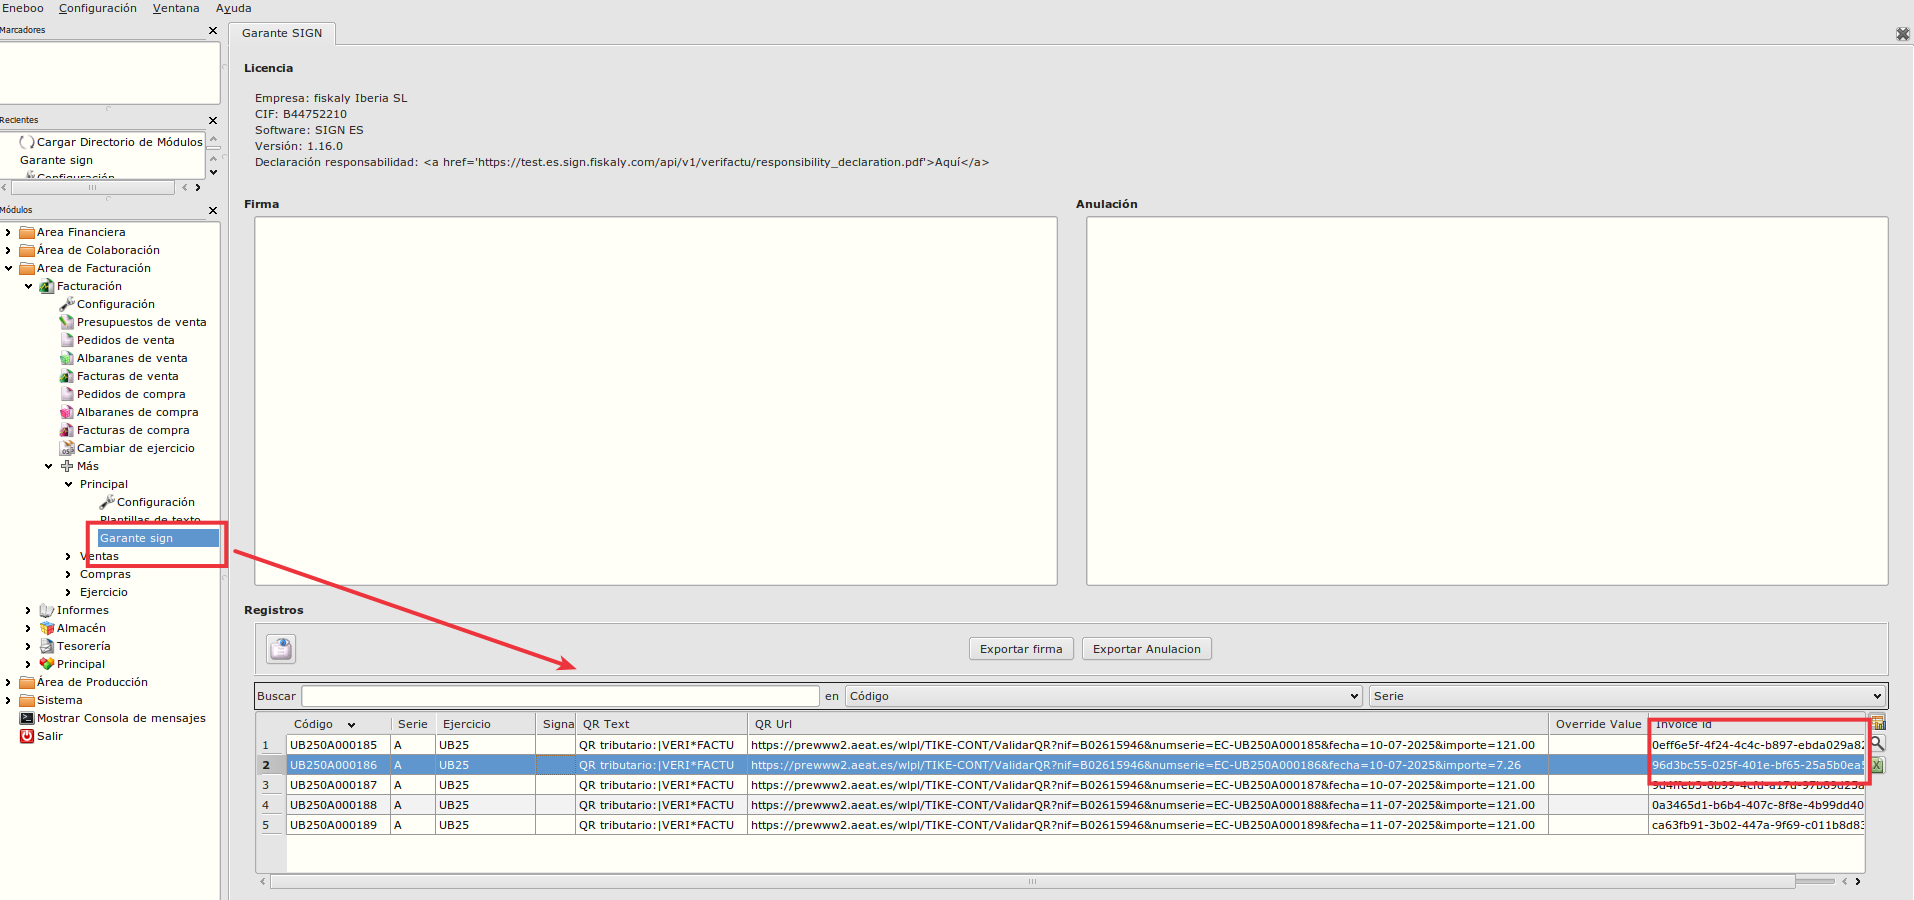
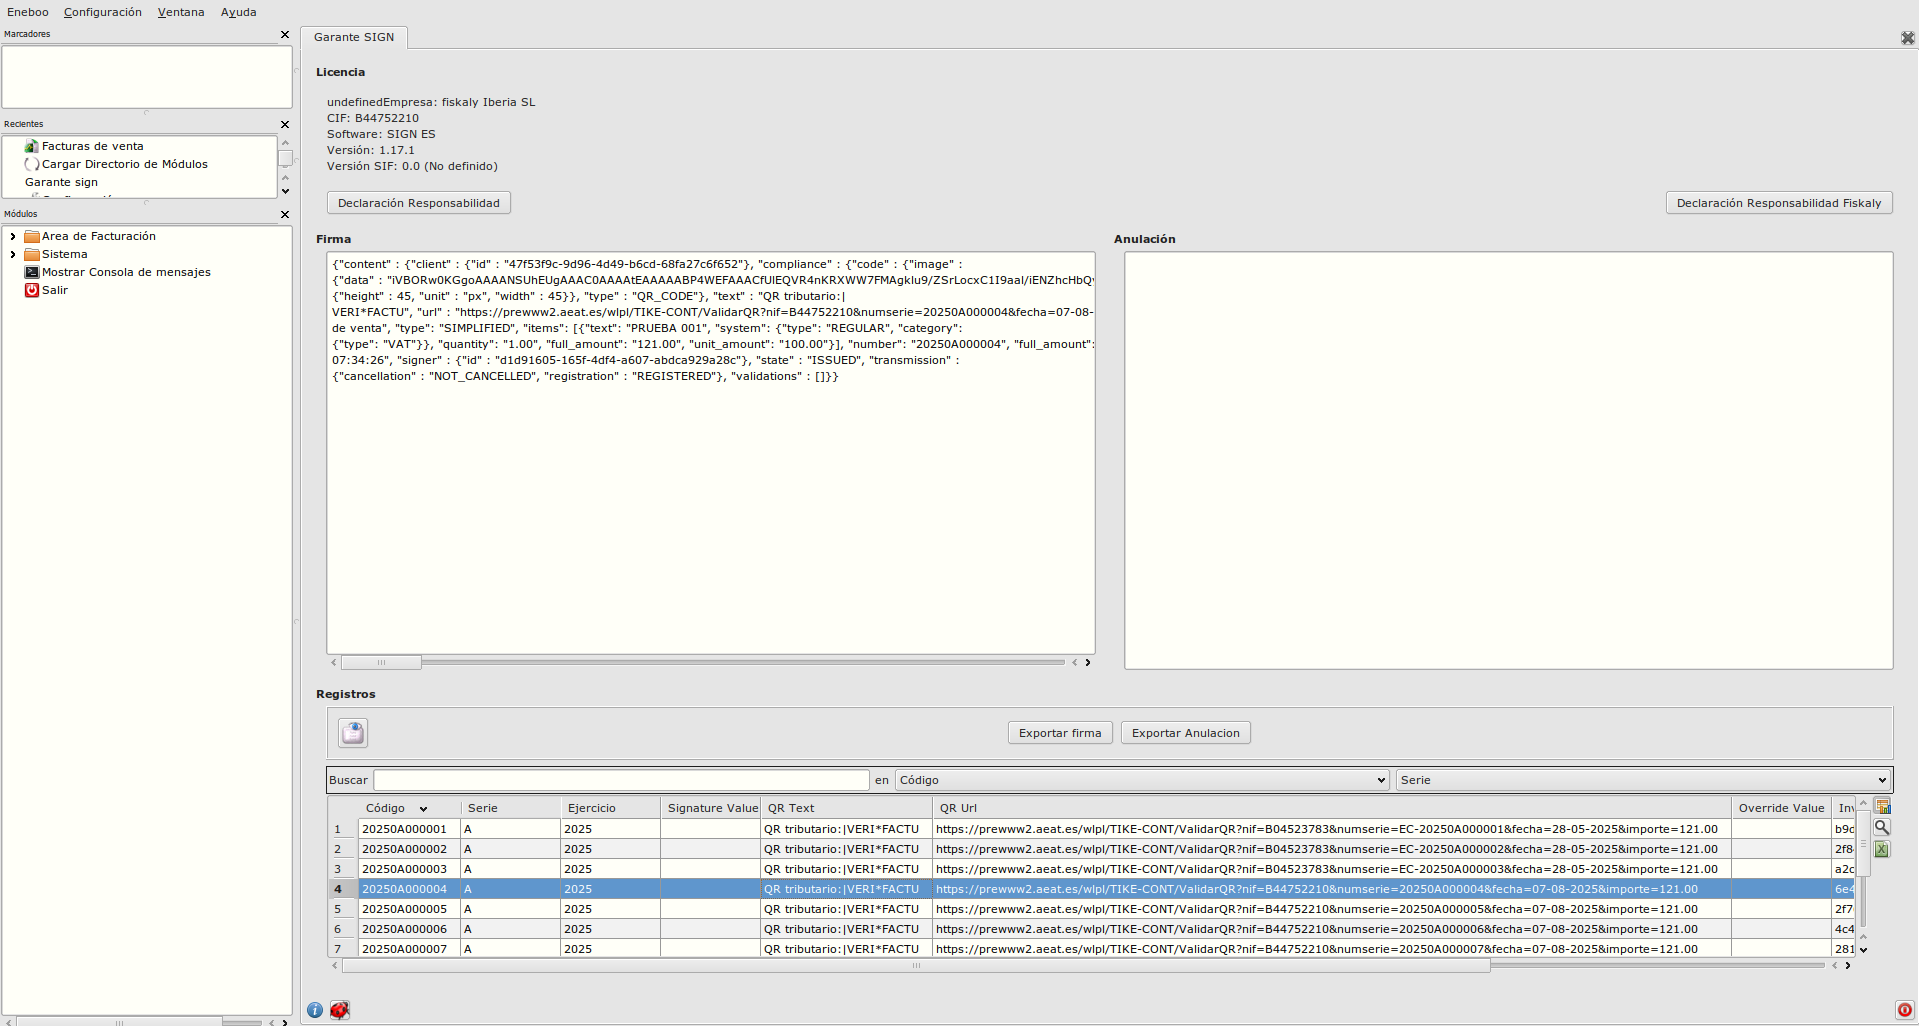
feat(fiskaly) Ampliando información, anulaciones, modo offline e incidencias en comunicación

Changed region(s): [[0.0, 0.0, 1.0, 1.0]]

diff --git a/fiskaly/configuracion.md b/fiskaly/configuracion.md
@@ -214,13 +214,13 @@ uuid: uuid de la empresa gestionadora.
 
 ![ERP](img/fiskaly24.png)
 
-- La factura pasará por los estados de **Pte.Emitir** y **Pte.Firma**, cuando está **Pte.Emitir** automáticamente se envía a Fiskaly y si no ha habido problema en el envío la factura se queda como **Pte.Firma**.
+- La factura pasará por los estados de **Pte.Comunicar** y **Pte.Firma**, cuando está **Pte.Comunicar** automáticamente se envía a Fiskaly y si no ha habido problema en el envío la factura se queda como **Pte.Firma**. Si se produce un error en la comunicación, la factura se quedará en estado  **Pte.Comunicar**, guardando el timestamp y el error resuelto, para marcar como incidente cuando finalmente sea enviada.
 
 ![ERP](img/fiskaly25.png)
 
 - Una vez en este punto, la factura será firmada por Fiskaly y la siguiente factura que se presente obtendrá la información del estado de las facturas en estado **Pte.Firma** y actualizará el estado como **Firmada** si todo ha ido bien.
 
-- Una forma alternativa de actualizar el estado sin tener que esperar a enviar otra factura es pulsando el botón de **Comprobar estado**
+- Una forma alternativa de actualizar el estado sin tener que esperar a enviar otra factura es pulsando el botón de **Comprobar estado**. 
 
 ![ERP](img/fiskaly26.png)
 
@@ -233,15 +233,34 @@ uuid: uuid de la empresa gestionadora.
 
 ![ERP](img/fiskaly28.png)
 
-- En esta pantalla podemos ver las facturas firmadas en Fiskaly y podemos ver el id que le ha asignado Fiskaly con el que se pueden ver las facturas en el dashboard
+- En esta pantalla podemos ver las facturas firmadas en Fiskaly y podemos ver el id que le ha asignado Fiskaly con el que se pueden ver las facturas en el dashboard.
 
+- En el atributo versión SIF, se optiene la versión de la lógica usada en este programa. Por defecto es **0.0 (No definido)**, pero tiene que sobrecargarse la siguiente función, para que especifique la versión correcta
+**mastergarante_sign.resuelveTextoLicencia()**
 
 ![ERP](img/fiskaly29.png)
 
+### 7. Anular factura
 
-### 7. Impresión de facturas
+- En principio, todas las facturas en estado **Firmada** o **Error firma** , pueden ser anuladas. Si la factura no puede informarse a Fiskaly, continuará en el estado **Firmada**.
 
-- En las facturas que se impriman, tienen que tener el QR generado al presentarse, para ello nos ayudaremos de las siguientes funciones que están en *flfactinfo* para poder imprimir tanto en **.jasper** como en **.kut**
+### 8. Incidencias en la comunicación
+
+- Cuando una factura está en estado **Pte.Comunicar** y es la primera vez que intenta presentarse, y no consigue hacerlo, almacena datos del timestamp y la razón del error.
+ Estos datos son necesarios para generar el QR de manera manual (y automática).
+ También se usan para comunicar la factura con el campo issued_date y rellenar el atributo annotations, con la información de la causa de la incidencia.
+
+### 9. Revisión de errores
+
+- Cuando se produce un error, **Error Firma**, **Error Anulación**, se muestra un mensaje al usuario informando de este. En el caso de producirse un error al presentar la factura la primera vez, la factura no mostrará error y quedará en estado **Pte.Comunicación**.
+
+- Las facturas en estado **Error Firma**, **Error Anulación** o **Pte.Comunicación**, habilitarán un botón **Mostrar errores** para mostrar el error que ha generado el estado de error.
+
+![ERP](img/fiskaly31.png)
+
+### 10. Impresión de facturas
+
+- En las facturas que se impriman, tienen que tener el QR generado al presentarse, para ello nos ayudaremos de las siguientes funciones que están en *flfactinfo* para poder imprimir tanto en **.jasper** como en **.kut**.
 
 ```
     veriFactu_crearFicheroVeriFactu(curFactura : FLSqlCursor)
@@ -249,7 +268,7 @@ uuid: uuid de la empresa gestionadora.
 
 ```
 
-- El QR debe de siguir las especificaciones que están incluidas en el siguiente documento:
+- El QR debe de seguir las especificaciones que están incluidas en el siguiente documento:
 
 https://www.agenciatributaria.es/static_files/AEAT_Desarrolladores/EEDD/IVA/VERI-FACTU/DetalleEspecificacTecnCodigoQRfactura.pdf
 
@@ -262,3 +281,4 @@ https://www.agenciatributaria.es/static_files/AEAT_Desarrolladores/EEDD/IVA/VERI
 
 
 ![ERP](img/fiskaly30.png)
+
